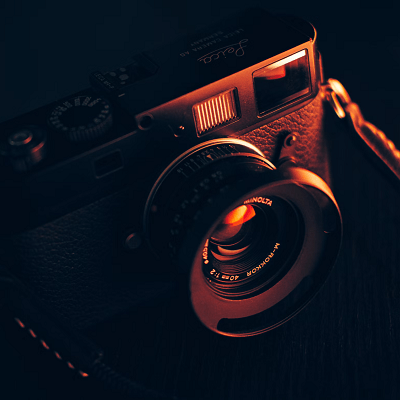
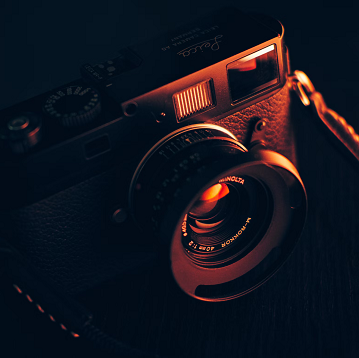
correcting sizes for two pictures and modifying home page

diff --git a/index.html b/index.html
@@ -37,8 +37,8 @@
       content="Nina Carducci, photographe professionnelle sur Bordeaux réalisant des shootings photos, retouches ou albums photos. Contact et devis facile et rapide."
     />
     <link rel="icon" type="image/x-icon" href="./assets/icon/icon-32x32.webp" />
-    <link rel="stylesheet" href="./assets/bootstrap/bootstrap.min.css" />
-    <link rel="stylesheet" href="./assets/style.min.css" />
+    <link defer rel="stylesheet" href="./assets/bootstrap/bootstrap.min.css" />
+    <link defer rel="stylesheet" href="./assets/style.min.css" />
     <meta itemprop="name" content="Nina Carducci Photographe sur Bordeaux" />
     <meta
       itemprop="description"
@@ -349,8 +349,8 @@
             />
             <img
               src="./assets/images/home/Desktop/Jpeg/nina.png"
-              width="401"
-              height="400"
+              width="370"
+              height="368"
               alt="Nina Carducci"
             />
           </picture>
@@ -639,8 +639,8 @@
               />
               <img
                 src="./assets/images/home/Desktop/Jpeg/camera.png"
-                width="400"
-                height="400"
+                width="359"
+                height="358"
                 alt="Appareil photo pris sous un éclairage tamisé"
               />
             </picture>
@@ -649,6 +649,7 @@
       </section>
     </main>
     <script
+      defer
       src="https://code.jquery.com/jquery-3.4.1.min.js"
       integrity="sha256-CSXorXvZcTkaix6Yvo6HppcZGetbYMGWSFlBw8HfCJo="
       crossorigin="anonymous"
